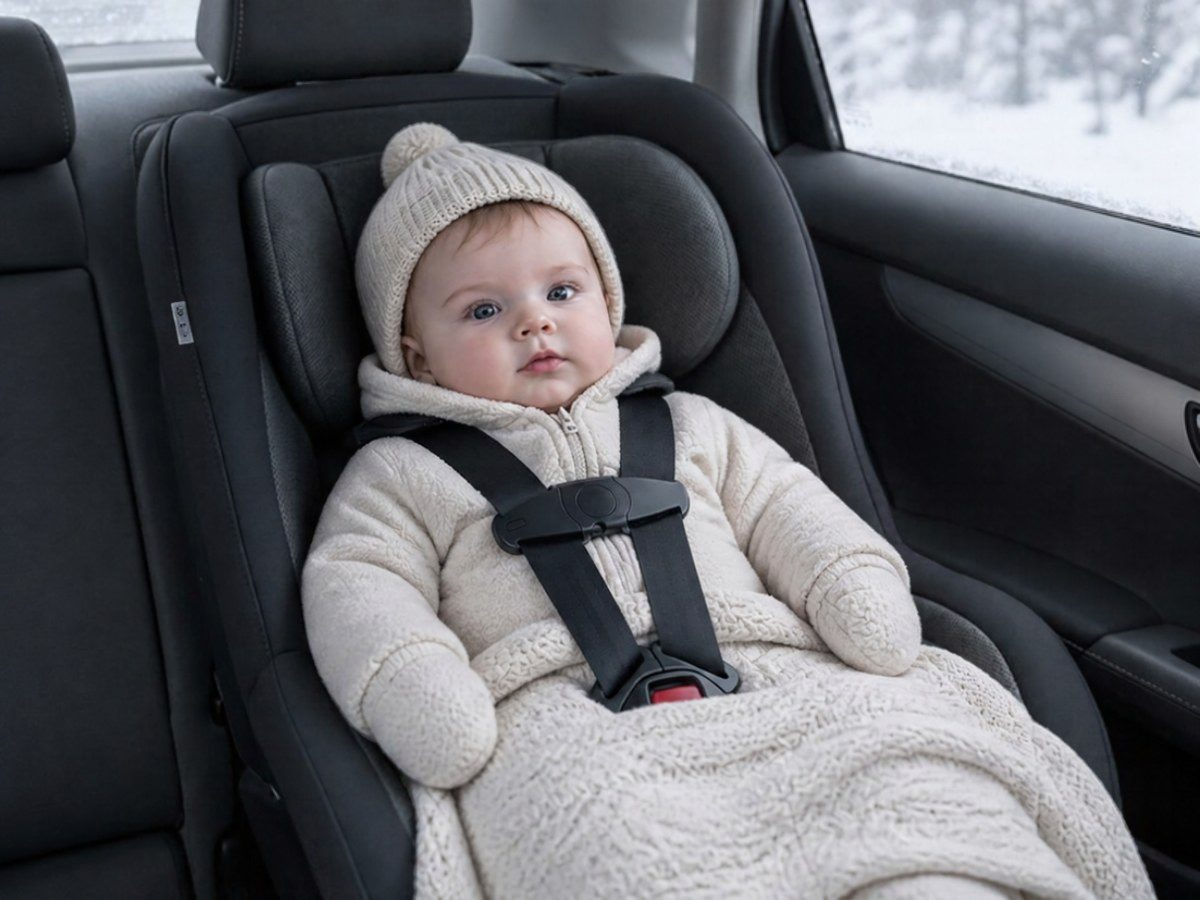
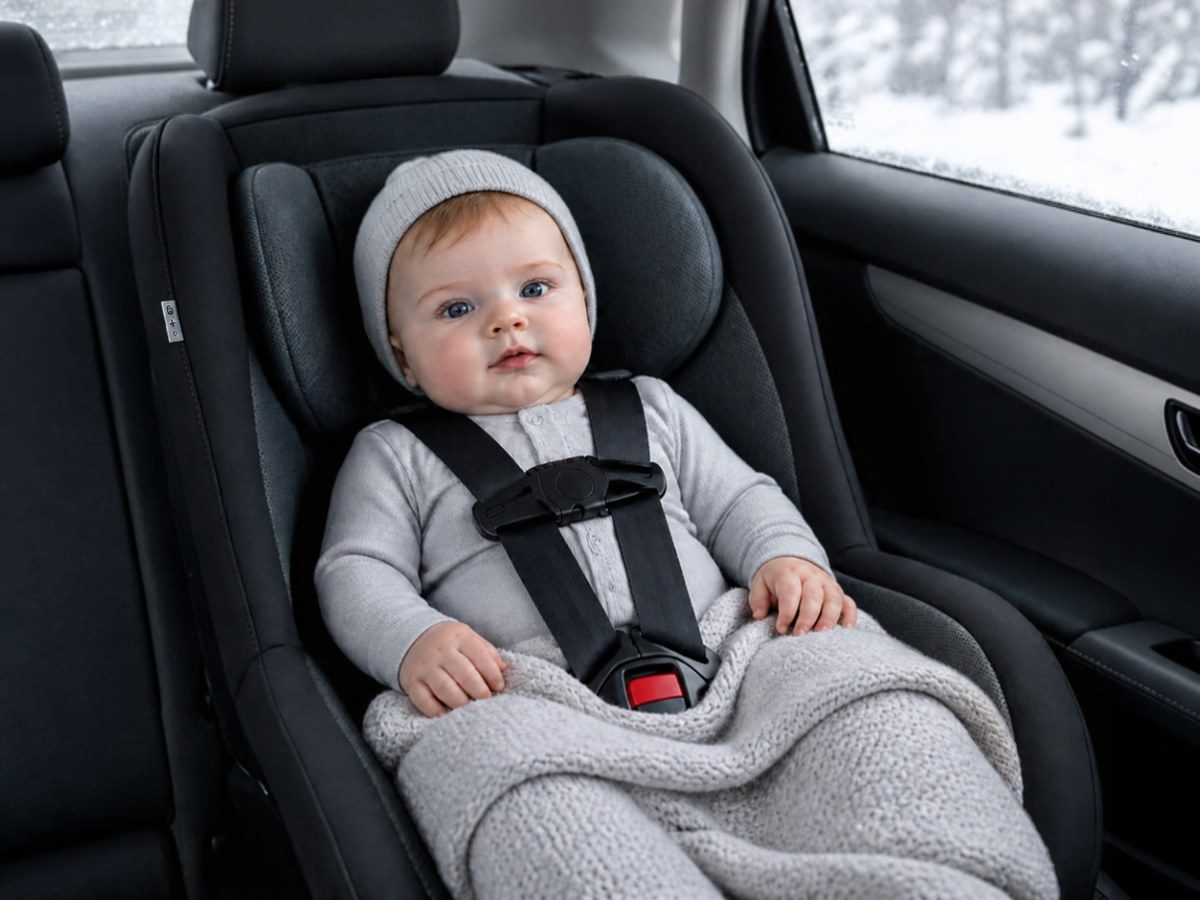
Outings: fix fresh-eyes review findings (cold photo, tags, wording, repeats)
Claude-Session: https://claude.ai/code/session_01SSLJSF53bLf6Ps2r6oyH2M

diff --git a/js/out-and-about.js b/js/out-and-about.js
@@ -124,7 +124,7 @@
   // Things that come in order (seats, ways to carry), as photo cards side by side with when and one line under each.
   const photoSteps = (title, items) => `<h2 class="hub-h2">${F(title)}</h2><div class="oa-psteps" style="--n:${items.length}">${items.map(([src, alt, when, line]) => `<figure><img src="${src}" alt="${F(alt)}" loading="lazy"><figcaption><b>${F(when)}</b><small>${F(line)}</small></figcaption></figure>`).join('')}</div>`;
   // What the label on an airplane-approved car seat says, drawn so the red word is easy to find on your own seat.
-  const aircraftLabel = () => `<section class="oa-label-card"><p class="oa-label-k">${F('Look for this on the car seat’s label')}</p><div class="oa-label"><span>${F('This restraint is certified for use in motor vehicles and')} <em>${F('aircraft')}</em>.</span></div><p class="oa-label-k is-sub">${F('“Aircraft” in red text means it can go on the plane.')}</p></section>`;
+  const aircraftLabel = () => `<section class="oa-label-card"><p class="oa-label-k">${F('Look for this on the car seat’s label')}</p><div class="oa-label"><span><em>${F('This restraint is certified for use in motor vehicles and aircraft.')}</em></span></div><p class="oa-label-k is-sub">${F('Printed in red on the seat, it means the seat can go on the plane.')}</p></section>`;
   const choicePair = (items) => `<section class="oa-photo-card"><div class="oa-choice">${items.map(([src, alt, title, line, ok]) => `<figure><img src="${src}" alt="${F(alt)}" loading="lazy"><figcaption class="${ok ? 'is-ok' : 'is-meh'}"><b>${F(title)}</b><small>${F(line)}</small></figcaption></figure>`).join('')}</div></section>`;
 
   /* ---------- building blocks ---------- */
@@ -183,10 +183,10 @@
   // Only the three gear changes get a home row (see briefing.js): facing out, moving up from the infant seat, and
   // rear-facing past 1. Each depends on the gear's label, so the row says to check it, never that it's time.
   const NOWS = [
-    [0, 'Short outings are good for you both', 'Fresh air and a change of scene help you both.', 'errands'],
+    [0, 'Short outings are good for you both', 'Even a 10-minute walk counts. Head out after a feed.', 'errands'],
     [2, 'Ready for a longer trip?', 'As feeds spread out, a long drive or a first flight gets easier.', 'road'],
     [4, 'Ready to face out?', 'Once Maya holds {p} head steady, check your carrier’s limits.', 'carry', ['Ready to face out?', 'Once Maya holds {p} head steady, check your carrier’s limits. Its instructions say when.', 'See the carrier guide']],
-    [6, 'Snacks on the go, and {p} first overnight trip', 'The shopping cart’s own seat, snacks out, and babyproofing when you stay over.', 'errands'],
+    [6, 'Snacks on the go, and a seat in the cart', 'Once {s} {sit|sits} steadily, {s} can ride in the cart’s own seat and snack while you shop.', 'errands'],
     [9, 'Watch the car seat’s limits', 'Moving to a convertible seat depends on the infant seat’s height and weight limits, printed on a sticker on the seat.', 'car', ['Maya may outgrow the infant car seat soon', 'Many babies do in the first year. The height and weight limits are on a sticker on the seat.', 'See which seat comes next']],
     [12, 'Rear-facing after the first birthday, too', 'Keep {o} rear-facing for as long as the seat allows.', 'car', ['Keep Maya rear-facing after the first birthday', 'Until the seat’s rear-facing limits, often age 2 or older. It protects {p} head and neck best.', 'See why it matters']]
   ];
@@ -408,8 +408,8 @@
         + good([['thermo', 'How hot is too hot?', 'When the heat index is 90°F or more, keep outings short or stay in.'], m >= 2 ? ['leaf', 'Bug spray, from 2 months', 'Up to 30% DEET, or picaridin. Spray your hands, then rub it on {p} skin, not {p} hands.'] : ['leaf', 'Bug spray, from 2 months', 'Not yet. Until then, use netting over the stroller.'], ['fridge', 'Milk on hot days', 'Keep it in a cooler with ice packs, never in a hot car.']])
         + calls(['Call your pediatrician', 'Any sunburn, or fewer wet diapers than usual.'], ['Call 911', 'Hot to the touch and floppy or hard to wake.']);
       const coldSeat = `<h2 class="hub-h2">${F('In the car seat')}</h2>` + beforeAfter(
-          [PH('cold-before'), 'A baby in a rear-facing car seat wearing a puffy snowsuit, the straps loose on top of it', 'Puffy coat', ['Straps loose', 34, 56, 'r']],
-          [PH('cold-after'), 'The same baby in thin fleece, harness snug and buckled, with a blanket over the legs on top of it', 'Blanket on top', ['Harness snug', 72, 44, 'l']],
+          [PH('cold-before'), 'A baby in a rear-facing car seat wearing a puffy snowsuit, the straps loose on top of it', 'Puffy coat', ['Straps loose', 27, 56, 'r']],
+          [PH('cold-after'), 'The same baby in thin layers, harness snug and buckled, with a blanket over the legs on top of it', 'Blanket on top', ['Harness snug', 27, 56, 'r']],
           [['shirt', 'Coat off before you buckle', 'A puffy coat squashes in a crash, leaving the straps too loose'], ['towel', 'Then a blanket or coat on top', 'Over the buckled straps, not under']])
         + `<h2 class="hub-h2">${F('What to do')}</h2>` + steps([['clock', 'Warm up the car first', 'Before you buckle {o} in'], ['shirt', 'One more layer on walks', 'Plus a hat and mittens'], ['hand', 'Check if {s’s} warm enough', 'Feel {p} chest. Cold hands are normal']], 'Warm up the car first. On walks, one more layer than you. Feel {p} chest to check {s’s} warm enough.');
       const cold = SHOW() ? coldSeat + good([['snow', 'Very cold or windy?', 'Keep walks short, or stay in.'], ['carrier', 'In a carrier', 'Your coat can go over you both, with {p} face uncovered.'], ['home', 'Once you’re somewhere warm', 'Take off {p} hat and extra layers, so {s} {don’t|doesn’t} overheat.']])
@@ -472,7 +472,7 @@
   }
   const chips3 = (id, opts, view) => `<div class="hub-seg oa-seg oa3-chips" role="tablist">${opts.map(([k, t]) => `<button role="tab" aria-selected="${view === k}" class="${view === k ? 'is-on' : ''}" onclick="oaView('${id}','${k}')">${F(t)}</button>`).join('')}</div>`;
   const one3 = text => `<section class="oa3-one"><span class="oa3-one-ic">${hubArt('idea', CAT)}</span><div><small>${F('One thing to know')}</small><b>${F(text)}</b></div></section>`;
-  const fold3 = (icon, title, inner) => inner ? `<details class="oa3-fold"><summary><span class="hub-dot">${hubArt(icon, CAT)}</span><b>${F(title)}</b><i aria-hidden="true">⌄</i></summary><div class="oa3-fold-body">${inner}</div></details>` : '';
+  const fold3 = (icon, title, inner) => inner ? `<details class="oa3-fold"><summary><span class="hub-dot">${hubArt(icon, CAT)}</span><b>${F(title)}</b><i aria-hidden="true"></i></summary><div class="oa3-fold-body">${inner}</div></details>` : '';
   const plainRows = items => { const it = items.filter(Boolean); return it.length ? `<div class="hub-list">${it.map(([icon, title, s]) => H().row({ icon, cat: CAT, title, sub: s })).join('')}</div>` : ''; };
   const fig3 = (src, alt, pins) => `<section class="oa-photo-card oa3-fig"><figure class="oa-photo"><img src="${PH(src)}" alt="${F(alt)}" loading="lazy">${pinsHtml(pins)}</figure></section>`;
 
@@ -484,7 +484,7 @@
     const k = season();
     b += `<div class="hub-list oa3-more">`
       + h.row({ icon: 'bag', cat: CAT, title: 'Your gear', sub: 'Car seat, stroller, carrier and diaper bag', onclick: open('gear') })
-      + h.row({ icon: k === 'hot' ? 'sun' : 'snow', cat: CAT, title: k === 'hot' ? 'Hot days' : 'Cold days', sub: k === 'hot' ? 'Shade, drinks and the car' : 'Layers and the car seat', onclick: open('weather') })
+      + h.row({ icon: k === 'hot' ? 'sun' : 'snow', cat: CAT, title: 'Hot and cold days', sub: k === 'hot' ? 'Shade, sunscreen and the car on hot days' : 'Layers and the car seat on cold days', onclick: open('weather') })
       + `</div>`;
     if (nx) b += h.next(`Next · around ${nx[0]} months`, nx[1], open(nx[3]), '', { 2: 'Plan a first long drive or flight around feeds.', 4: 'Check your carrier’s limits before facing out.', 6: 'Pack snacks, and a travel crib for overnights.', 9: 'Check the height and weight sticker on the car seat.', 12: 'Check the seat’s rear-facing limits on its label.' }[nx[0]] || '');
     return `<div class="quiet-category hub-page" data-overview="${CAT}" style="${yearTheme(CAT)}">${monthlyPageHeader(CAT)}${b}</div>`;
@@ -500,9 +500,10 @@
 
   function detail3(id) {
     const m = ageNow(), bf = nursing(), fm = formula();
-    const feedLine = bf && fm ? 'Nurse or give a bottle, wherever you’re comfortable.' : bf ? 'Nurse wherever you’re comfortable, or give a bottle of pumped milk.' : 'Give a bottle where you are. Formula doesn’t need warming.';
+    const nurses = bf && how() !== 'Pumping' && how() !== 'Stored';
+    const feedLine = nurses && fm ? 'Nurse or give a bottle, wherever you’re comfortable.' : nurses ? 'Nurse wherever you’re comfortable, or give a bottle of pumped milk.' : bf && !fm ? 'Give a bottle of pumped milk where you are. No need to warm it.' : bf ? 'Give a bottle where you are. Neither milk needs warming.' : 'Give a bottle where you are. Formula doesn’t need warming.';
 
-    if (id === 'gear') return page3('gear', 'bag', 'Your gear', 'A quick check on each, every outing.',
+    if (id === 'gear') return page3('gear', 'bag', 'Your gear', 'What to check on each one, every time you go out.',
       gear(ageNow()).replace(`<h2 class="hub-h2">${F('Your gear')}</h2>`, '')
       + h3note('Car seats, carriers and strollers each have their own height and weight limits. You’ll find them in the manual and on the gear itself.'));
 
@@ -510,77 +511,76 @@
       const v = view3.errands || 'walk';
       const walk = fig3('town', 'A parent pushing a stroller along a sunny street past a café')
         + one3('Head out right after a feed. It’s the calmest stretch.')
-        + plainRows([['carrier', 'While you’re out', 'In any car, {s} {ride|rides} in {p} own car seat. A carrier keeps your hands free.'], ['heart', 'If plans change', 'Hungry, upset or a blowout? Find a quiet spot, or head home early. ' + (bf ? 'You can nurse wherever you’re comfortable.' : 'Formula doesn’t need warming.')]]);
+        + plainRows([['carrier', 'While you’re out', 'A carrier keeps your hands free, even with the stroller.'], ['heart', 'If plans change', 'Hungry, upset or a blowout? Find a quiet spot, or head home early.']]);
       const store = beforeAfter(
           [PH('cart-before'), 'An infant car seat balanced on top of a shopping cart', 'Seat on the cart', null],
           [PH('cart-after'), 'A parent pushing a cart with the baby in a carrier on their chest', 'In a carrier', null],
           [eats() ? ['shield', 'Or the cart’s own seat', 'With the strap on, once {s} {sit|sits} steadily'] : ['stroller', 'Or bring the stroller', 'And put the shopping underneath']])
         + one3('Never balance an infant car seat on top of a shopping cart. It can tip, or fall off.');
-      const rest = (eats() ? fig3('highchair', 'A baby strapped into a café high chair with a bowl of soft food', [['Strapped in', 70, 72, 'l']])
+      const rest = (eats() ? fig3('highchair', 'A baby in a café high chair with a bowl of soft food', [])
           : fig3('restaurant-young', 'An awake, smiling baby lying back in a stroller beside a café table, the coffee cup up on the table', REST_PINS))
-        + one3(eats() ? 'Strap {o} in, and pull the high chair back from the table.' : 'The car seat stays on the floor or clicked onto the stroller, never on top of a high chair.')
-        + plainRows([eats() ? ['bowl', 'Hot food to the middle', 'Out of reach of grabbing hands'] : null, eats() ? ['bag', 'Bring {p} own food', 'Something soft from home, a bib and a spoon'] : null, ['bottle', 'Feeding at the table', feedLine], bf && pumps() ? ['fridge', 'Pumped milk', 'Fine cool or at room temperature. No need to warm it.'] : null]);
+        + one3(eats() ? 'Strap {o} in, and pull the high chair back from the table.' : 'Keep {o} in the stroller or on your lap. Never balance a car seat on top of a high chair.')
+        + plainRows([eats() ? ['bowl', 'Hot food to the middle', 'Out of reach of grabbing hands'] : null, eats() ? ['bag', 'Bring {p} own food', 'Something soft from home, a bib and a spoon'] : null, ['bottle', 'Feeding at the table', feedLine], ]);
       return page3('errands', 'home', 'Around town', 'One or two stops is plenty, and leaving early still counts.',
         chips3('errands', [['walk', 'Walk'], ['store', 'Store'], ['rest', 'Restaurant']], v) + (v === 'store' ? store : v === 'rest' ? rest : walk));
     }
 
-    if (id === 'road') return page3('road', 'car', 'Road trips', 'Long drives go best in 2-hour stretches.',
+    if (id === 'road') return page3('road', 'car', 'Road trips', 'Plan the drive around feeds and naps.',
       `<h2 class="hub-h2">${F('Plan your drive')}</h2><div class="oa3-stops" style="--n:3">${[['car', 'Leave', 'As a nap starts'], ['bottle', 'Every 2 hours', eats() ? 'Stop to feed, change and snack' : 'Stop to feed and change'], ['home', 'Arrive', 'Sleep moves to a crib or play yard']].map(([i, t, l]) => `<div><span>${hubArt(i, CAT)}</span><b>${F(t)}</b><small>${F(l)}</small></div>`).join('')}</div>`
       + one3('Only soft toys in the car. Hard ones can fly in a sudden stop.')
-      + plainRows([['heart', 'Crying while you drive', 'Pull over somewhere safe, then take {o} out.'], ['moon', 'Naps on the road', 'Fine in the car seat while you drive.'], ['clock', 'Driving on your own', 'Plan a few more stops. Check on {o} only when you’re parked.'], bf ? ['mouth', 'Nursing or pumping', 'Park first. {S} {stay|stays} buckled in whenever the car is moving.'] : null, typeof profile !== 'undefined' && profile.early ? ['steth', 'Born early?', 'Ask your pediatrician how long rides can be.'] : null])
-      + fold3('bag', 'Packing extras', fm ? plainRows([['bottle', 'One extra bottle', 'In case of traffic']]) : ''));
+      + plainRows([['heart', 'Crying while you drive', 'Pull over somewhere safe, then take {o} out.'], ['moon', 'Naps on the road', 'Fine in the car seat while you drive.'], ['clock', 'Driving on your own', 'Plan a few more stops. Check on {o} only when you’re parked.'], bf ? [how() === 'Pumping' ? 'bottle' : 'mouth', nurses ? 'Nursing or pumping' : 'Pumping', 'Park first. {S} {stay|stays} buckled in whenever the car is moving.'] : null, typeof profile !== 'undefined' && profile.early && m < 4 ? ['steth', 'Born early?', 'Ask your pediatrician how long rides can be.'] : null, fm ? ['bottle', 'One extra bottle', 'In case of traffic'] : null]));
 
     if (id === 'fly') return page3('fly', 'plane', 'Flying', 'Most flight planning happens when you book.',
       phases('fly', [
         ['Book', `<h2 class="hub-h2">${F('Where will Maya sit?')}</h2>` + choicePair([[PH('seat-own'), 'A rear-facing infant car seat installed in a plane window seat with the lap belt', 'Own seat', 'Safest, in a car seat labeled for aircraft', 1], [PH('seat-lap'), 'A parent holding a baby on their lap in a plane seat', 'On your lap', 'Often free under 2, but less safe in turbulence', 0]])
-          + plainRows([['notepad', 'When you book', 'Add {o}, and ask about a bassinet seat.'], m < 2 ? ['steth', 'Flying in the first weeks', 'Ask your pediatrician first.'] : null])
+          + plainRows([['notepad', 'When you book', 'Add {o}. Flying with {o} on your lap? Ask about a bassinet seat.'], m < 2 ? ['steth', 'Flying in the first weeks', 'Ask your pediatrician first.'] : null])
           + fold3('shield', 'Check the car seat label', aircraftLabel())
-          + fold3('bag', 'Flight packing extras', plainRows([fm ? ['bottle', 'One extra bottle', 'In case of delays'] : null, ['diaper', 'Diapers for the trip, plus extra', 'At least one more than you think'], ['shirt', 'A change of clothes', 'For {o}, and a top for you, in your carry-on'], eats() ? ['bowl', 'Snacks {s} already eats', 'Soft and easy, for delays'] : null, m >= 3 ? ['drop', 'Medicine you might need', 'A fever reducer your pediatrician has OK’d, with its syringe'] : ['chat', 'Your pediatrician’s number', 'Under 3 months, any fever means calling them first'], ['book', 'Proof of {p} age', 'Like {p} birth certificate, for a lap seat']]))],
-        ['Airport', plainRows([['bag', 'At security', bf && !fm && !pumps() ? 'Nothing extra for nursing. If you bring pumped milk, tell the officer.' : bf && !fm && !pumping() ? 'Breast milk can go through, even more than 3.4 oz. Tell the officer.' : bf && !fm ? 'Pumped milk and your pump can go through. Tell the officer.' : !bf ? 'Formula and water can go through. Tell the officer.' : pumping() ? 'Milk, formula and your pump can go through. Tell the officer.' : 'Breast milk and formula can go through. Tell the officer.'], ['stroller', 'At the gate', 'Gate-check the stroller. It waits at the plane door.']])],
-        ['On board', one3('For takeoff and landing, take {o} out of the carrier, then ' + (bf && !fm && how() === 'Nursing' ? 'nurse or offer a pacifier for {p} ears.' : 'offer a feed or a pacifier for {p} ears.'))
+          + fold3('bag', 'Flight packing extras', plainRows([fm ? ['bottle', 'One extra bottle', 'In case of delays'] : null, ['diaper', 'Diapers for the trip, plus extra', 'At least one more than you think'], ['shirt', 'A change of clothes', 'For {o}, in your carry-on'], eats() ? ['bowl', 'Snacks {s} already eats', 'Soft and easy, for delays'] : null, m >= 3 ? ['drop', 'Medicine you might need', 'A fever reducer your pediatrician has OK’d, with its syringe'] : ['chat', 'Your pediatrician’s number', 'Under 3 months, any fever means calling them first'], ['book', 'Proof of {p} age', 'Like {p} birth certificate, for a lap seat']]))],
+        ['Airport', plainRows([['bag', 'At security', bf && !fm && !pumps() ? 'Nothing extra for nursing. If you bring pumped milk, tell the officer.' : bf && !fm && !pumping() ? 'Breast milk can go through, even more than 3.4 oz. Tell the officer.' : bf && !fm ? 'Pumped milk and your pump can go through. Tell the officer.' : !bf ? 'Formula and water can go through. Tell the officer.' : pumping() ? 'Milk, formula and your pump can go through. Tell the officer.' : 'Breast milk and formula can go through. Tell the officer.'], ['stroller', 'At the gate', 'Gate-check the stroller. It waits at the plane door.'], ['car', 'If the car seat can’t go on', 'Not labeled for aircraft, or doesn’t fit? Check it at the gate.']])],
+        ['On board', one3('In {p} own seat, {s} {stay|stays} buckled in the car seat for takeoff and landing. On your lap, take {o} out of the carrier first. Either way, ' + (bf && !fm && how() === 'Nursing' ? 'nursing or a pacifier helps {p} ears.' : 'a feed or a pacifier helps {p} ears.'))
           + plainRows([['heart', 'Crying on board', 'Walk the aisle or offer a feed. Most people understand.'], ['hand', 'A diaper change', 'Ask the crew which restroom has the fold-down table.']])],
         ['Arrive', plainRows([['clock', 'After you land', 'Short trip? Keep naps on home time. Longer? Shift them a little each day.']])
           + `<button class="hub-link" onclick="openPage('chg:Sleep:d:away')">${F('Sleep in a new time zone')} ›</button>`]]));
 
-    if (id === 'away') return page3('away', 'crib', 'Staying away', 'Ten minutes makes a new room baby-safe.',
+    if (id === 'away') return page3('away', 'crib', 'Staying away', 'A few minutes of setup makes any new room safe.',
       phases('away', [
         ['Before you go', `<h2 class="hub-h2">${F('Where {s} will sleep')}</h2>` + beforeAfter(
             [PH('hotel-before'), 'A hotel room with a big adult bed, pillows and a thick duvet', 'Adult bed', null],
             [PH('hotel-after'), 'The same hotel room with a bare play yard beside the bed', 'Bare play yard', null],
-            [['crib', 'A play yard, or a crib made after June 2011', 'Ask the hotel for one, or bring your own'], ['sofa', 'Never an adult bed or a couch', 'Even for a nap, even with you right there']], ['28%', '88%'])
-          + fold3('bag', 'What to pack', plainRows([['sack', '{P} sleep sack', 'It smells like home'], ['home', 'Bringing your own play yard?', 'Pack only the sheet made for it'], ['star', 'A night light', 'For feeds in a dark, new room']]))],
+            [['crib', 'A play yard, or a crib made after June 2011', 'Ask the hotel for one, or bring your own'], ['sofa', 'Never an adult bed or a couch', 'Even for a nap, even with you right there']], ['28%', '100%'])
+          + plainRows([['home', 'Bringing your own play yard?', 'Use only the mattress and sheet made for it. No extra padding.']])
+          + fold3('bag', 'What to pack', plainRows([['sack', '{P} sleep sack', 'Warm without blankets, and it feels like home'], ['moon', 'A night light', 'For feeds in a dark, new room']]))],
         ['When you arrive', `<h2 class="hub-h2">${F('A room that’s safe for Maya')}</h2>` + fig3('away-room', 'A hotel room with a bare play yard against the wall and a travel bag up on a high closet shelf', AWAY_PINS)
           + checks3(m)
-          + plainRows([['hand', 'Pets', 'Never leave {o} alone with a pet, even a gentle one.'], eats() ? ['bowl', 'Grandparents and treats', 'Share your food rules once, kindly, before the first meal.'] : null])],
-        ['Settling in', plainRows([['clock', 'Same bedtime as at home', 'The same steps, in {p} own sleep sack'], ['moon', 'A rough first night', 'New places can unsettle sleep. A few off nights are common.'], ['heart', 'Well-meant advice', 'Share one rule kindly: on {p} back, in a bare crib.']])
-          + `<button class="hub-link" onclick="openPage('chg:Sleep:d:away')">${F('Sleep in a new time zone')} ›</button>`]]));
+          + plainRows([['heart', 'Pets', 'Never leave {o} alone with a pet, even a gentle one.'], eats() ? ['bowl', 'Grandparents and treats', 'Share your food rules once, kindly, before the first meal.'] : null])],
+        ['Settling in', plainRows([['clock', 'Same bedtime as at home', 'The same steps, in {p} own sleep sack'], ['moon', 'A rough first night', 'New places can unsettle sleep. A few off nights are common.']])]]));
 
     if (id === 'water') {
       const v = view3.water || 'pool';
-      const pool = fig3('pool', 'A parent in the pool holding a smiling baby in a sun hat and swim shirt close with both arms', [['Held the whole time', 30, 84, 'r']])
+      const pool = fig3('pool', 'A parent in the pool holding a smiling baby in a sun hat and swim shirt close with both arms', [])
         + one3('Hold {o} the whole time in the water. Floats don’t stop drowning.')
         + rows([['snow', 'Shivering or blue lips', 'Out of the water. Dry and wrap {o} up.'], ['thermo', 'Flushed and fussy', 'Move to the shade and offer a feed.']], 'When things don’t go to plan')
         + fold3('bag', 'Packing extras', plainRows([['diaper', 'Swim diapers', 'Most pools ask for one'], ['towel', 'A hooded towel', 'For warming up after a dip']]));
-      const beach = fig3('beach-setup', 'A parent and baby in a sun hat sitting in the deep shade of a beach umbrella', [['Deep shade', 30, 22, 'r'], ['Sun hat', 56, 46, 'r']])
+      const beach = fig3('beach-setup', 'A parent and baby in a sun hat sitting in the deep shade of a beach umbrella', [['Deep shade', 26, 9, 'r'], ['Sun hat', 41, 47, 'r']])
         + one3(m < 6 ? 'Set up in the shade of an umbrella or canopy, with a hat on {o}.' : 'Set up in the shade, with a hat and sunscreen on {o}.')
         + plainRows([['clock', 'Go early', 'Before the strongest sun, and head home before the nap'], ['hand', 'Hot sand', 'It can burn little feet. Keep shoes or a blanket handy.'], ['drop', 'In the water', 'Hold {o} the whole time. Floats don’t stop drowning.']])
         + rows([['thermo', 'Flushed and fussy', 'Move to the shade and offer a feed.'], ['snow', 'Shivering or blue lips', 'Out of the water. Dry and wrap {o} up.']], 'When things don’t go to plan')
-        + fold3('bag', 'Packing extras', plainRows([['diaper', 'Swim diapers', 'For any dips'], ['towel', 'A hooded towel', 'For warming up after'], m >= 6 ? ['shield', 'Sunscreen', 'SPF 30 or more, every 2 hours'] : null]));
-      return page3('water', 'sun', 'Pool or beach', 'Short visits work best. Babies get cold, and overheat, faster than you do.',
+        + fold3('bag', 'Packing extras', plainRows([['diaper', 'Swim diapers', 'For any dips'], ['towel', 'A hooded towel', 'For warming up after']]));
+      return page3('water', 'sun', 'Pool or beach', 'Keep visits short. Babies chill and overheat faster than adults.',
         chips3('water', [['pool', 'Pool'], ['beach', 'Beach']], v) + (v === 'beach' ? beach : pool));
     }
 
-    if (id === 'abroad') return page3('abroad', 'notepad', 'Going abroad', 'The passport comes first. Apply as soon as you book.',
+    if (id === 'abroad') return page3('abroad', 'notepad', 'Going abroad', 'Most of the work happens before you leave.',
       phases('abroad', [
         ['Before you go', plan('Plan your trip', [
             ['As soon as you book', 'notepad', 'Apply for {p} passport. It can take weeks.'],
             ['4–6 weeks before', 'steth', 'Ask your pediatrician about shots, including an early measles shot from 6 months.'],
-            ['Before you leave', 'home', 'Save how you’d find a doctor there.']], 'Apply for the passport as soon as you book. Four to six weeks before, ask the pediatrician about shots. Before you leave, save how you would find a doctor there.')
-          + plainRows([['chat', 'If one parent can’t come', 'They sign a notarized consent form for the passport appointment instead.']])
+            ['Before you leave', 'home', 'Save the local emergency number, and how you’d find a doctor there.']], 'Apply for the passport as soon as you book. Four to six weeks before, ask the pediatrician about shots. Before you leave, save the local emergency number and how you would find a doctor there.')
+          + plainRows([['chat', 'Only one parent at the passport appointment?', 'Bring the other parent’s notarized consent form.']])
           + fold3('bag', 'What to pack', plainRows([['car', '{P} own car seat', 'Taxis and rental cars may not have one'], ['thermo', 'A thermometer', 'And the medicines your pediatrician okays'], ['drop', 'Rehydration salts', 'Ask your pediatrician which kind']]))],
-        ['When you arrive', one3('In any car or taxi, {s} {ride|rides} in {p} own car seat.')
-          + plainRows([['drop', 'Water for ' + (fm ? 'formula and ' : '') + 'bottles', fm ? 'Sealed bottled, or boiled, for formula, your drinks and washing bottles' : 'Sealed bottled, or boiled, for your drinks and washing bottles'], ['leaf', 'Mosquito netting', 'Over the crib and stroller, if there’s no air conditioning or screens']])],
-        ['While you’re there', plainRows([['cup', 'Drinks', 'No ice. It’s often made with tap water'], eats() ? ['bowl', 'Food', 'Cooked, or fruit you peel'] : null, ['bottle', 'A tummy bug', 'Keep feeding. Babies dry out faster than adults do.']])
+        ['When you arrive', one3(fm ? 'Use sealed bottled or boiled water for formula and for washing bottles.' : 'Use sealed bottled or boiled water for washing bottles, and for your own drinks.')
+          + plainRows([['leaf', 'Mosquito netting', 'Over the crib and stroller, if there’s no air conditioning or screens']])],
+        ['While you’re there', plainRows([['cup', 'Your drinks', 'No ice. It’s often made with tap water'], eats() ? ['bowl', 'Food', 'Cooked, or fruit you peel'] : null, ['bottle', 'A tummy bug', 'Keep feeding. Babies dry out faster than adults do.']])
           + calls(['Call a doctor', 'A fever, fewer wet diapers, a dry mouth, or diarrhea that keeps going.'], ['Get care right away', m < 3 ? 'Any fever under 3 months or in a malaria area, trouble breathing, or hard to wake.' : 'Any fever in a malaria area, trouble breathing, or hard to wake.'])]]));
 
     if (id === 'weather') {
@@ -592,11 +592,11 @@
           null)
         + one3('Go out early or late, when it’s cooler, and keep {o} in the shade.')
         + plainRows([m < 6 ? ['sun', 'Shade, not sunscreen', 'If there’s no shade, a little on {p} face is OK'] : ['sun', 'Sunscreen', 'SPF 30 or more, every 2 hours'], ['bottle', 'Keep {o} hydrated', !eats() ? 'With extra milk feeds' : 'With extra milk feeds and sips of water'], ['car', 'Cool the car first', 'Then touch the buckles: they can burn']])
-        + fold3('notepad', 'More for hot days', plainRows([['thermo', 'How hot is too hot?', 'When the heat index is 90°F or more, keep outings short or stay in.'], m >= 2 ? ['leaf', 'Bug spray, from 2 months', 'Up to 30% DEET, or picaridin. Spray your hands, then rub it on {p} skin, not {p} hands.'] : ['leaf', 'Bug spray, from 2 months', 'Not yet. Until then, use netting over the stroller.'], ['fridge', 'Milk on hot days', 'In a cooler with ice packs, never in a hot car.']]))
+        + fold3('notepad', 'More for hot days', plainRows([['thermo', 'How hot is too hot?', 'When the heat index is 90°F or more, keep outings short or stay in.'], m >= 2 ? ['leaf', 'Bug spray, from 2 months', 'Up to 30% DEET, or picaridin. Spray your hands, then rub it on {p} skin, not {p} hands.'] : ['leaf', 'Bug spray, from 2 months', 'Not yet. Until then, use netting over the stroller.']]))
         + calls(['Call your pediatrician', 'Any sunburn, or fewer wet diapers than usual.'], ['Call 911', 'Hot to the touch and floppy or hard to wake.']);
       const cold = beforeAfter(
-          [PH('cold-before'), 'A baby in a rear-facing car seat wearing a puffy snowsuit, the straps loose on top of it', 'Puffy coat', ['Straps loose', 34, 56, 'r']],
-          [PH('cold-after'), 'The same baby in thin fleece, harness snug and buckled, with a blanket over the legs on top of it', 'Blanket on top', ['Harness snug', 72, 44, 'l']],
+          [PH('cold-before'), 'A baby in a rear-facing car seat wearing a puffy snowsuit, the straps loose on top of it', 'Puffy coat', ['Straps loose', 27, 56, 'r']],
+          [PH('cold-after'), 'The same baby in thin layers, harness snug and buckled, with a blanket over the legs on top of it', 'Blanket on top', ['Harness snug', 27, 56, 'r']],
           [['shirt', 'Coat off before you buckle', 'A puffy coat squashes in a crash, leaving the straps too loose']])
         + one3('Warm up the car first, and feel {p} chest to check {s’s} warm enough. Cold hands are common.')
         + plainRows([['shirt', 'One more layer on walks', 'Plus a hat and mittens'], ['carrier', 'In a carrier', 'Your coat can go over you both, with {p} face uncovered.']])
@@ -619,7 +619,7 @@
       + `<p class="oa-psteps-note">${F('Each within your carrier’s own limits. Its instructions say when.')}</p>`
       + good([['moon', 'Asleep in the carrier', 'Move {o} to a flat bed when you can.'], ['cup', 'Away from the stove', 'And from hot drinks, while {s’s} in the carrier.']]));
 
-    if (id === 'stroller') return page3('gear', 'stroller', 'Stroller', 'Harness on and brakes set, every outing.',
+    if (id === 'stroller') return page3('gear', 'stroller', 'Stroller', 'A quick check before every walk.',
       `<h2 class="hub-h2">${F('The quick check')}</h2>` + fig3('stroller', 'A baby reclined in a stroller in a park, harness buckled, canopy open for shade', [['Harness buckled', 60, 64, 'r'], ['Canopy for shade', 50, 12, 'b']])
       + one3('Brakes on whenever you stop, and no bags on the handles. They can tip it back.')
       + fold3('back', 'Lying back, then sitting up', plainRows([['stroller', 'From birth', 'Lying back, or with the infant car seat clicked on'], ['back', 'Sits steadily', 'Sitting up, if the stroller’s instructions allow it']]))
@@ -633,15 +633,15 @@
     if (id === 'snacks') return detail3('errands');
     return null;
   }
-  const AWAY_PINS = [['Bare play yard', 45, 62, 'b'], ['Bags up high', 82, 12, 'l']];
-  const CARRY_PINS = [['Face in view', 64, 26, 'r'], ['Chin off the chest', 42, 40, 'l']];
+  const AWAY_PINS = [['Bare play yard', 67, 47, 'r'], ['Bags up high', 73, 7, 'l']];
+  const CARRY_PINS = [['Face in view', 59, 19, 'r'], ['Chin off the chest', 47, 30, 'l']];
   // Three quick checks for any new place (ticks saved on this phone, cleared with Start over).
   const CHECKS_KEY = 'ahead-away-3';
   window.oaCheck3 = i => { let on = []; try { on = JSON.parse(localStorage.getItem(CHECKS_KEY)) || []; } catch (e) {} on = on.includes(i) ? on.filter(x => x !== i) : on.concat(i); try { localStorage.setItem(CHECKS_KEY, JSON.stringify(on)); } catch (e) {} const y = scrollY; render(); scrollTo(0, y); };
   window.oaCheck3Reset = () => { try { localStorage.removeItem(CHECKS_KEY); } catch (e) {} const y = scrollY; render(); scrollTo(0, y); };
   const checks3 = m => {
     let on = []; try { on = JSON.parse(localStorage.getItem(CHECKS_KEY)) || []; } catch (e) {}
-    const items = [['crib', 'Sleep space is clear and ready', 'A play yard or crib with only its own mattress and sheet'], ['lock', 'Cords, medicines and bags out of reach', 'Up high: yours and everyone else’s'], ['hand', m >= 6 ? 'Floors and furniture checked' : 'Nothing within reach of the crib', m >= 6 ? 'Small things off the floor, outlets covered, stairs blocked' : 'No cords, bags or blinds near the play yard']];
+    const items = [['crib', 'Sleep space is clear and ready', 'A play yard or crib with only its own mattress and sheet'], ['lock', 'Cords, medicines and bags out of reach', 'Up high: yours and everyone else’s'], m >= 6 ? ['hand', 'Floors and furniture checked', 'Small things off the floor, outlets covered, stairs blocked'] : ['home', 'Play yard in a good spot', 'Away from the window, the heater and the lamp']];
     return `<div class="oa-away-head"><h2 class="hub-h2">${F('Check the room')}</h2>${on.length ? `<button class="hub-link" onclick="oaCheck3Reset()">${F('Start over')}</button>` : ''}</div>`
       + `<div class="hub-list oa3-checks">${items.map(([icon, t, sub], i) => `<button class="hub-row${on.includes(i) ? ' is-on' : ''}" aria-pressed="${on.includes(i)}" onclick="oaCheck3(${i})"><span class="hub-dot">${hubArt(icon, CAT)}</span><span class="hub-row-copy"><b>${F(t)}</b><small>${F(sub)}</small></span><i class="oa3-tick" aria-hidden="true">✓</i></button>`).join('')}</div>`
       + `<p class="oa-psteps-note">${F(`${on.length} of 3 checked`)}</p>`;

diff --git a/index.html b/index.html
@@ -14,7 +14,7 @@
 <link rel="stylesheet" href="css/health-show.css?v=1119d">
 <link rel="stylesheet" href="css/health-pages-v2.css?v=1119u">
 <link rel="stylesheet" href="css/safety-look.css?v=1118s">
-<link rel="stylesheet" href="css/outings-look.css?v=1120g">
+<link rel="stylesheet" href="css/outings-look.css?v=1120k">
 <link rel="stylesheet" href="css/childcare-look.css"><link rel="stylesheet" href="css/care-card.css">
 <link rel="stylesheet" href="css/care-v2.css?v=1117x">
 <link rel="stylesheet" href="css/year-ahead.css?v=1115c"><link rel="stylesheet" href="css/subpage-color.css"><style>#main .you-avatar.has-photo{overflow:hidden;padding:0}#main .you-avatar.has-photo img{width:100%;height:100%;object-fit:cover;display:block}</style><link rel="stylesheet" href="css/stages-nav.css"><link rel="stylesheet" href="css/home-cards.css"><link rel="stylesheet" href="css/home-glance.css?v=1117g"><link rel="stylesheet" href="css/one-app.css"><link rel="stylesheet" href="css/month-story.css"><link rel="stylesheet" href="css/guides-v2.css?v=1"><link rel="stylesheet" href="css/home-card-clean.css?v=3"><link rel="stylesheet" href="css/dev-photo.css?v=34"></head>
@@ -35,7 +35,7 @@
 <script src="js/hub-categories.js?v=1120h"></script>
   <script src="js/hub-pages.js?v=1120a"></script>
 <script src="js/stage-timeline.js?v=1113e"></script>
-<script src="js/out-and-about.js?v=1120h"></script>
+<script src="js/out-and-about.js?v=1120k"></script>
 <script src="js/care-card-render.js"></script><script src="js/childcare.js?v=1114x"></script>
 <script src="js/dev-play-art.js"></script>
 <script src="js/dev-scenes.js?v=1113e"></script>

diff --git a/css/outings-look.css b/css/outings-look.css
@@ -245,3 +245,5 @@
 #main .oa3-checks + .oa-psteps-note { margin: -4px 4px 18px }
 #main .oa3-under { margin: -4px 4px 22px }
 #main .oa3-fold .oa-label-card { border: 0; margin: 0; padding: 4px 10px 8px }
+@media (max-width:370px){ #main .oa-ba .oa-pin span{font-size:11px;padding:5px 7px} }
+#main .oa-ba figure { display:flex; flex-direction:column } #main .oa-ba .oa-ba-img { margin-top:auto }
